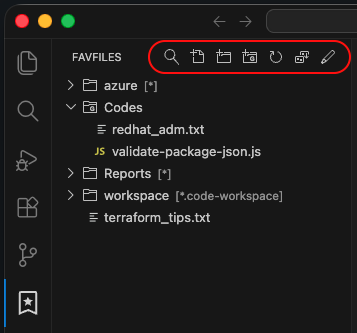
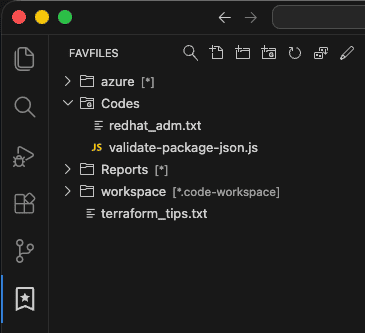
Added support for changing the file filter of a favorite folder after creation. Also, improved the commands palette for FavFiles.

diff --git a/src/controller/extension-controller.js b/src/controller/extension-controller.js
@@ -50,6 +50,14 @@ class ExtensionController {
     }
   }
 
+  selectedTreeItem() {
+    return this._treeView?.selection?.[0];
+  }
+
+  resolveCommandTarget(target) {
+    return target ?? this.selectedTreeItem();
+  }
+
   getTreeDragDenialReason(item) {
     if (!item) {
       return 'Nothing to drag.';
@@ -236,8 +244,9 @@ class ExtensionController {
   }
 
   async addToTargetGroup(target, kind) {
-    const group = this.normalizeGroupTarget(target);
+    const group = this.normalizeGroupTarget(this.resolveCommandTarget(target));
     if (!group) {
+      vscode.window.showInformationMessage('Select a FavFiles group first.');
       return;
     }
 
@@ -341,8 +350,9 @@ class ExtensionController {
   }
 
   async changeFolderFilter(target) {
-    const folder = this.normalizeFolderTarget(target);
+    const folder = this.normalizeFolderTarget(this.resolveCommandTarget(target));
     if (!(folder instanceof FolderFavorite) || folder.dynamic) {
+      vscode.window.showInformationMessage('Select a favorite folder first.');
       return;
     }
 
@@ -391,7 +401,7 @@ class ExtensionController {
   }
 
   async openGroup(group) {
-    group = this.normalizeGroupTarget(group) ?? group;
+    group = this.normalizeGroupTarget(group ?? this.selectedTreeItem()) ?? group;
 
     if (!group) {
       group = await this.promptGroupSelection(false);
@@ -429,7 +439,7 @@ class ExtensionController {
   }
 
   async openFolder(folder) {
-    folder = this.normalizeFolderTarget(folder) ?? folder;
+    folder = this.normalizeFolderTarget(folder ?? this.selectedTreeItem()) ?? folder;
 
     if (!folder) {
       folder = await this.promptFolderSelection();
@@ -443,6 +453,7 @@ class ExtensionController {
   }
 
   async refreshFolder(target) {
+    target = this.resolveCommandTarget(target);
     if (!target) {
       this.refreshView(undefined);
       return;
@@ -467,6 +478,8 @@ class ExtensionController {
   }
 
   async createGroup(targetGroup) {
+    targetGroup = this.resolveCommandTarget(targetGroup);
+
     const label = await vscode.window.showInputBox({
       prompt: 'Name of your new group (as shown in the FavFiles view):',
       value: 'New group',
@@ -491,7 +504,9 @@ class ExtensionController {
   }
 
   async removeFavorite(item) {
+    item = this.resolveCommandTarget(item);
     if (!item) {
+      vscode.window.showInformationMessage('Select a FavFiles item first.');
       return;
     }
 
@@ -503,7 +518,9 @@ class ExtensionController {
   }
 
   async openInNewWindow(item) {
+    item = this.resolveCommandTarget(item);
     if (!item) {
+      vscode.window.showInformationMessage('Select a favorite file or folder first.');
       return;
     }
 
@@ -520,7 +537,9 @@ class ExtensionController {
   }
 
   async moveFavorite(item) {
+    item = this.resolveCommandTarget(item);
     if (!item) {
+      vscode.window.showInformationMessage('Select a FavFiles item first.');
       return;
     }
 
@@ -544,7 +563,9 @@ class ExtensionController {
   }
 
   async renameFavorite(item) {
+    item = this.resolveCommandTarget(item);
     if (!item) {
+      vscode.window.showInformationMessage('Select a FavFiles item first.');
       return;
     }
 
@@ -564,6 +585,12 @@ class ExtensionController {
   }
 
   async openResource(item) {
+    item = this.resolveCommandTarget(item);
+    if (!item) {
+      vscode.window.showInformationMessage('Select a favorite file first.');
+      return;
+    }
+
     await item.activate();
   }
 

diff --git a/README copy.md b/README copy.md
@@ -20,11 +20,9 @@ FavFiles is useful when you want to:
 
 ## Features
 
-### A dedicated favorites sidebar
+![Menu](images/favfiles-features.png)
 
-Keep your important files, folders, and grouped shortcuts in one place inside VS Code.
-
-![FavFiles sidebar view](images/favfiles-features.png)
+![Menu](images/favfiles-commands.png)
 
 ### Pin files you use all the time
 

diff --git a/CHANGELOG.md b/CHANGELOG.md
@@ -1,6 +1,8 @@
 ## 1.0.3
 
 - Added support for changing the file filter of a favorite folder after creation
+- Improved the commands palette for FavFiles
+- Improved the README documentation
 
 ## 1.0.2
 
